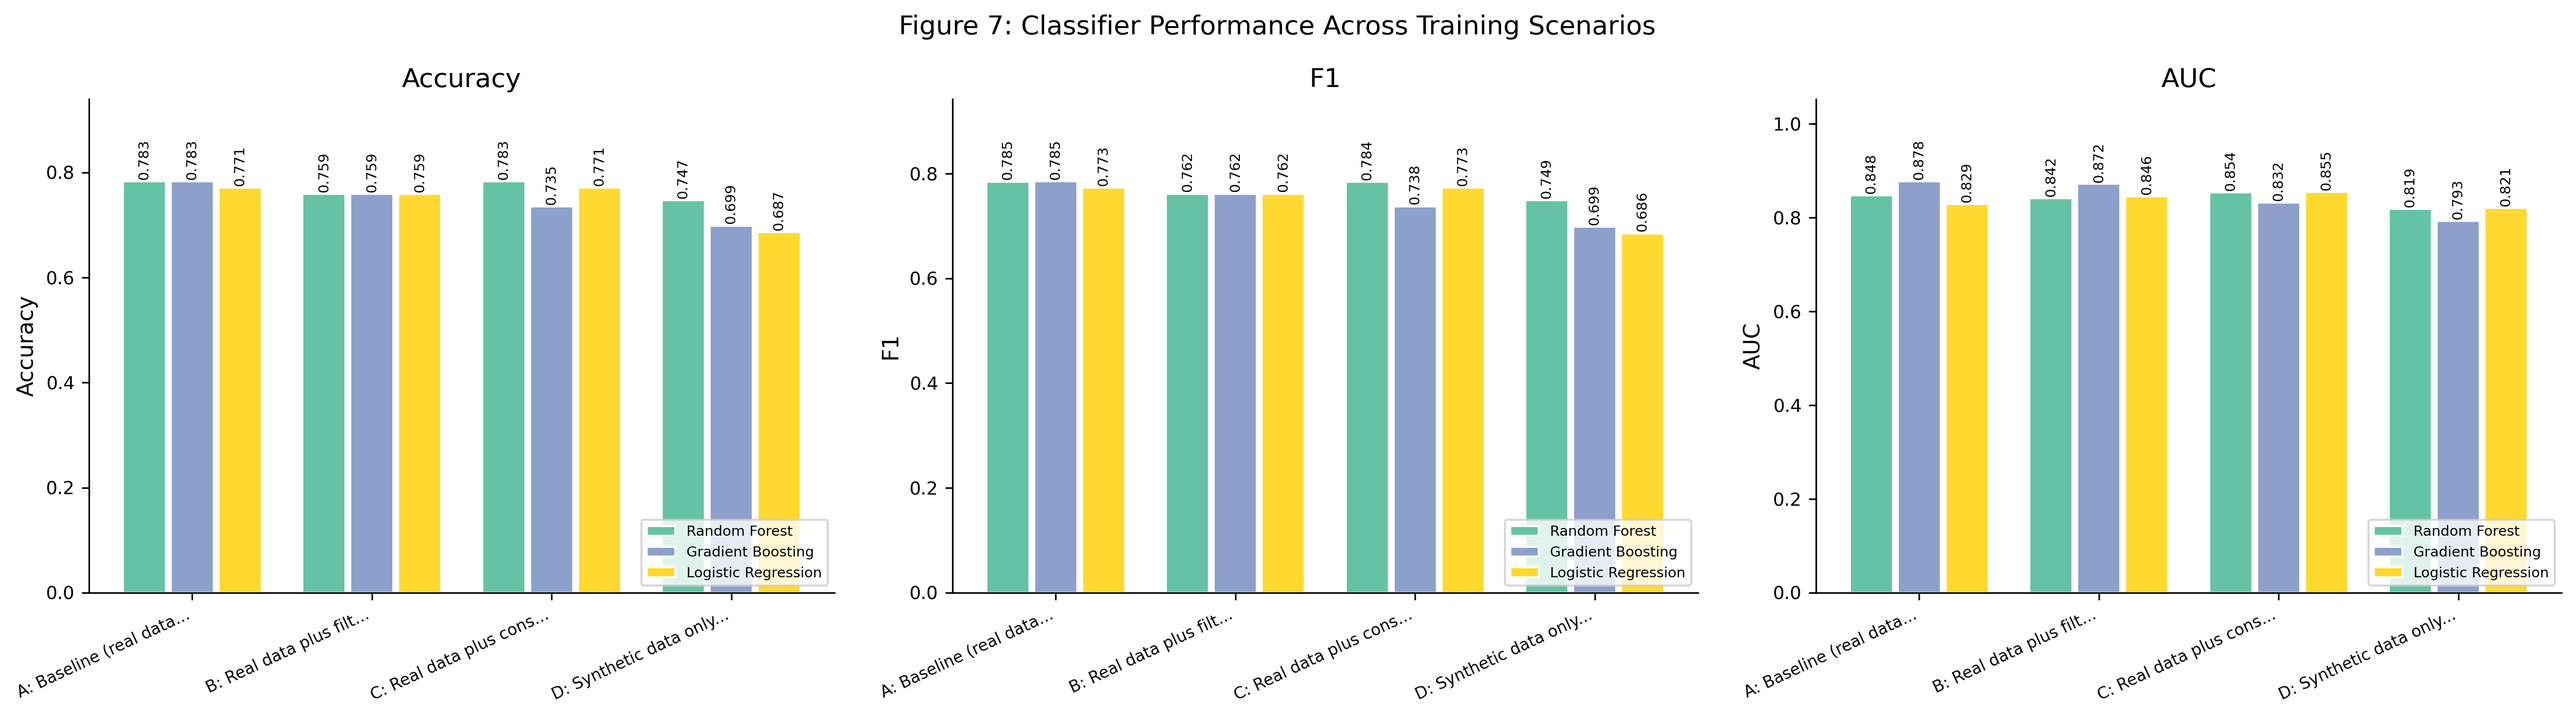
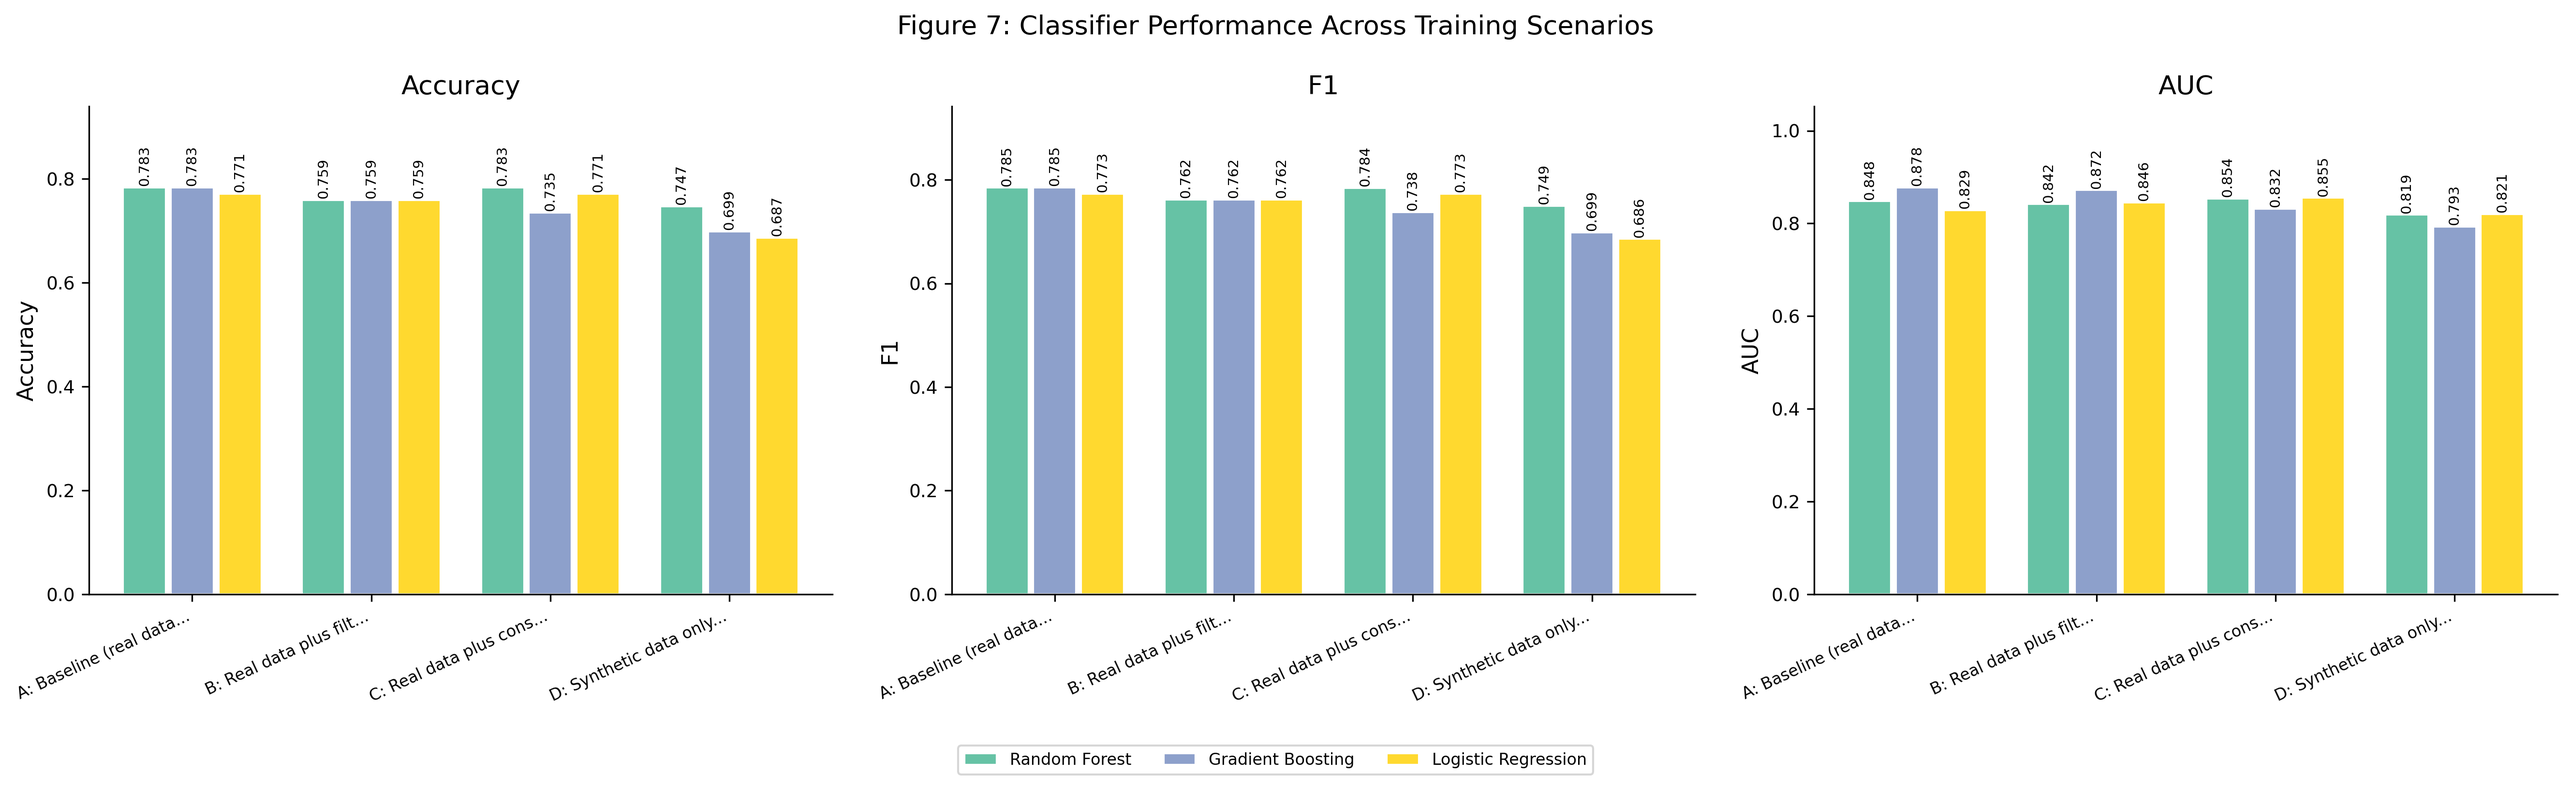
Fix fig7: move legend below chart

diff --git a/src/visualizations.py b/src/visualizations.py
@@ -467,11 +467,14 @@ def plot_model_comparison(results_df, metrics=None):
         ax.set_ylabel(metric)
         ax.set_title(metric)
         ax.set_ylim(0, min(1.15, results_df[metric].max() * 1.2))
-        ax.legend(fontsize=7, loc="lower right")
 
+    handles, labels = axes[0].get_legend_handles_labels()
+    fig.legend(handles, labels, loc="lower center",
+               bbox_to_anchor=(0.5, -0.08), ncol=len(classifiers), fontsize=8)
     fig.suptitle("Figure 7: Classifier Performance Across Training Scenarios",
                  fontsize=13)
     fig.tight_layout()
+    fig.subplots_adjust(bottom=0.18)
     _save_figure(fig, "fig7_model_comparison.png")
 
 
